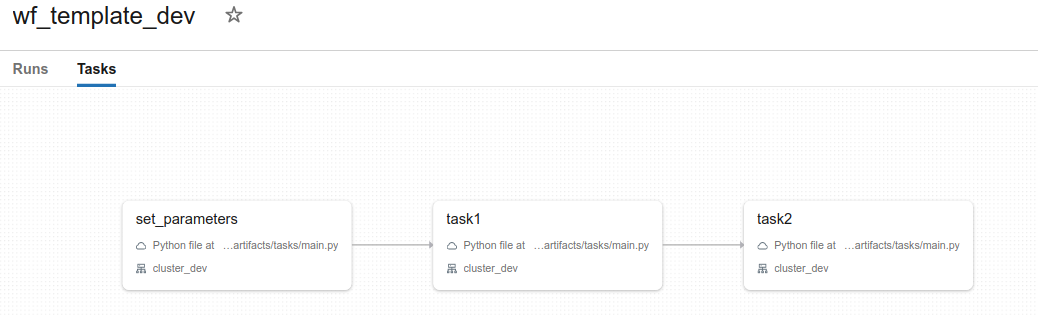
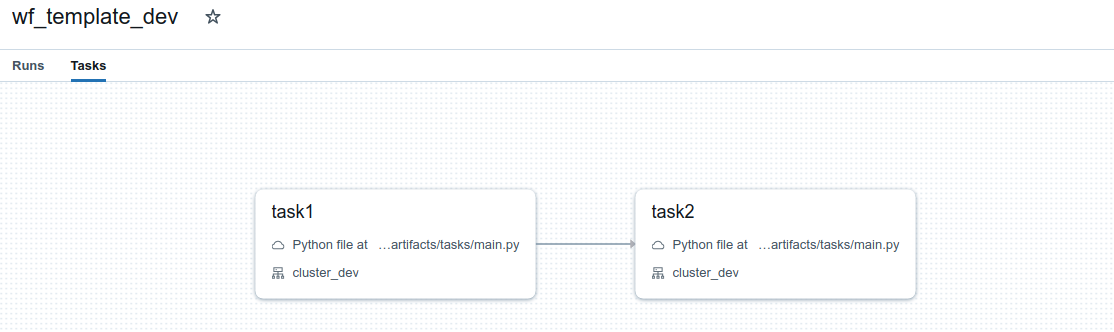
a better and testable config and argparser

diff --git a/tasks/main.py b/tasks/main.py
@@ -7,62 +7,25 @@ from tasks.config import *
 from tasks.task1 import *
 from tasks.task2 import *
 
-if __name__ == "__main__":
+def arg_parser():
 
     parser = argparse.ArgumentParser()
         
     parser.add_argument("--env", choices=["dev", "prod"])
     parser.add_argument("--input")
     parser.add_argument("--output")  
-    parser.add_argument("--task", required=True, choices=["set_parameters",
-                                                            "task1",
-                                                            "task2"])
+    parser.add_argument("--task", required=True, choices=["task1", "task2"])
     parser.add_argument("--skip", action='store_true')
-    parser.add_argument("--only_delta", action='store_true')
 
-    args = parser.parse_args()
+    return parser
 
-    print("args: " + str(args))
+if __name__ == "__main__":
 
-    if args.task == "set_parameters":
+    args = arg_parser().parse_args()
 
-        if args.env is None:
-            parser.error("--env required")
+    config = Config(args)
 
-        if args.input is None:
-            parser.error("--input required")
-
-        print("Setting workflow configs... ")
-        dbutils.jobs.taskValues.set(key = 'env', value = args.env)
-        dbutils.jobs.taskValues.set(key = 'input', value = args.input)
-
-        if args.output:
-            dbutils.jobs.taskValues.set(key = 'output', value = args.output)
- 
-    elif not args.skip:
-
-        try:
-            env = dbutils.jobs.taskValues.get(taskKey = "set_parameters", key = 'env')
-        except ValueError as ve:
-            if args.env is None:
-                parser.error("--env required")
-            else:
-                env = args.env
-
-        try:
-            input = dbutils.jobs.taskValues.get(taskKey = "set_parameters", key = 'input')
-        except ValueError as ve:
-            if args.input is None:
-                parser.error("--input required")
-            else:
-                input = args.input
-
-        try:
-            output = dbutils.jobs.taskValues.get(taskKey = "set_parameters", key = 'output')
-        except ValueError as ve:
-            output = args.output
-            
-        config = Config(env, input, output, args.task, args.only_delta)
+    if not config.skip_task():
 
         spark = SparkSession.builder.appName(args.task).getOrCreate()
 
@@ -74,4 +37,3 @@ if __name__ == "__main__":
     else:
         
         print(args.task + " skipped")
-  

diff --git a/tasks/config.py b/tasks/config.py
@@ -1,31 +1,36 @@
+import argparse
+
 class Config:
 
-    buckets = dict()
-    task = None
-    input = None
-    only_delta = None
+    params = dict()
+    args = None
 
-    def __init__(self, env, input, output, task, only_delta):
-
-        self.input = input
-        self.task = task
-        self.only_delta = only_delta
-
-        self.buckets.update({"input" : "s3://parsed-serps-" + env + "/" + input + "/S/"})
-
-        if output is None:
-            output = input
-
-        self.buckets.update({"root" : env + "-databricks-"})
-        self.buckets.update({"prefix_hbase" :  output + "/hbase"})
-        self.buckets.update({"output_hbase" : "s3://" + env + "-databricks-test/"  + output + "/hbase/"})
-        self.buckets.update({"delta" : "s3://" + env + "-databricks-test/" + output + "/delta/"})
-        self.buckets.update({"delta_basic_type" : "s3://" + env + "-databricks-test/" + output + "/delta/serps_basic_type"})
+    def __init__(self, args):
         
+        print("args: " + str(args))
+
+        if args.output == None:
+            output = args.input
+        else:
+            output = args.output
+
+        self.args = args
+        self.params.update({"input" : "s3://" + args.env + "-dbtemplate123/"  + args.input + "/"})
+        self.params.update({"output" : "s3://" + args.env + "-dbtemplate123/"  + output + "/"})
+        self.params.update({"skip" : args.skip})
+                
         print("Setting task configs... ")
-        for key, value in self.buckets.items():
+        for key, value in self.params.items():
             print(f"{key}: {value}")
     
     def get_bucket(self, key):
         
-        return self.buckets[key]
+        return self.params[key]
+    
+    def skip_task(self):
+        
+        return self.params['skip']
+
+    def get_test_output(self):
+
+        return (self.params)

diff --git a/tests/template_test.py b/tests/template_test.py
@@ -1,4 +1,4 @@
-import datetime
+from argparse import Namespace
 
 import pytest
 from chispa.dataframe_comparer import *
@@ -6,10 +6,12 @@ from pyspark.sql import *
 from pyspark.sql import functions as F
 from pyspark.sql.types import *
 
+from tasks.main import *
 from tasks import commonSchemas as sc
 from tasks.config import Config as TaskConfig
 from tasks.task1 import *
 from tasks.task2 import *
+from tasks.task1 import *
 
 #from databricks.connect import DatabricksSession
 #from databricks.sdk.core import Config
@@ -30,7 +32,29 @@ def df_in(spark) -> DataFrame:
 @pytest.fixture
 def config() -> TaskConfig:
 
-   return TaskConfig("", "", "", "", False)
+   return TaskConfig(Namespace(task='task1', env='dev', input='2024-01-01'))
+
+def test_arg_parser():
+
+   parser = arg_parser()
+
+   args = parser.parse_args(["--task=task1", "--env=dev","--input=test", "--skip"])
+
+   assert args == Namespace(task='task1', env='dev', input='test', output=None, skip=True)
+
+@pytest.mark.parametrize("args, expected_output", [
+   (Namespace(task='task1', env='dev', input='2024-01-01', output=None, skip=False),
+      {'input': 's3://dev-dbtemplate123/2024-01-01/', 'output':'s3://dev-dbtemplate123/2024-01-01/', 'skip':False}),
+   (Namespace(task='task2', env='prod', input='2024-01-02', output='test', skip=False),
+      {'input': 's3://prod-dbtemplate123/2024-01-02/', 'output':'s3://prod-dbtemplate123/test/', 'skip':False}),
+   (Namespace(task='task3', env='prod', input='2024-01-03', output=None, skip=True), 
+      {'input': 's3://prod-dbtemplate123/2024-01-03/', 'output':'s3://prod-dbtemplate123/2024-01-03/', 'skip':True})
+])
+def test_config(args, expected_output):
+
+   config = TaskConfig(args)
+
+   assert config.get_test_output() == expected_output
 
 def test_transf1(spark, config, df_in):
 

diff --git a/README.md b/README.md
@@ -1,11 +1,11 @@
 
-## Project Template for a CI/CD Pipeline with a PySpark/Databricks
+## Project Template for a PySpark/Databricks project (with automation for CI/CD)
 
 This project template provides a structured approach to enhance your productivity when delivering data pipelines on Databricks. Feel free to further customize it based on your project's specific nuances and the audience you are targeting.
 
 This project template demonstrates how to:
 
-- structure your PySpark code inside classes / packages.
+- structure your PySpark code inside classes/packages.
 - configure your pipeline to run in dev and prod environments.
 - set up VS Code to execute local unit tests for your transformations.
 - utilize [pytest package](https://pypi.org/project/pytest/) to run unit tests on transformations.
@@ -24,32 +24,30 @@ This project template demonstrates how to:
 
 ## Prepare local env  
 
-- build python env and execute unit tests
+### 1) build python env and execute unit tests
 
         pipenv --python 3.10
         pipenv shell
         pip install -r unit-requirements.txt
         pytest tests/
         
-
-- configure databricks tools, deploy and execute on "dev" aws account. First, [generate token](https://docs.databricks.com/en/dev-tools/auth/pat.html#databricks-personal-access-tokens-for-workspace-users) on your Databricks workspace.
-        
-        databricks configure -t *token*
-        databricks workspace ls /
-        adjust cluster policy (???)
-        dbx deploy wf_template_dev --environment=dev
-        dbx launch wf_template_dev --environment=dev
-                
-- configure repository secrets DATABRICKS_HOST and DATABRICKS_TOKEN for Github Actions.
-
-
-<br>
-
 You can also execute unit tests from your preferred IDE. Here's a screenshot from [VS Code](https://code.visualstudio.com/) with [Microsoft's Python extension](https://marketplace.visualstudio.com/items?itemName=ms-python.python) installed.
 
 <img src="docs/vscode.png"  width="30%" height="30%">
 
-## CI/CD pipeline  
+### 2) configure databricks tools, deploy and execute on "dev" aws account. 
+
+First, [generate a token](https://docs.databricks.com/en/dev-tools/auth/pat.html#databricks-personal-access-tokens-for-workspace-users) in your Databricks workspace.
+        
+        databricks configure -t *token*
+        databricks workspace ls /
+        adjust cluster policy on deployment.yml. You can find it on your workspace -> compute -> policies -> Job Compute.
+        dbx deploy wf_template_dev --environment=dev
+        dbx launch wf_template_dev --environment=dev
+                
+### 3) configure CI/CD pipeline
+
+Generate [Github Actions repository secrets](https://docs.github.com/en/actions/security-guides/using-secrets-in-github-actions) DATABRICKS_HOST and DATABRICKS_TOKEN.
 
 The below diagram illustrates the CI/CD pipeline for this project.
 
@@ -59,9 +57,11 @@ The below diagram illustrates the CI/CD pipeline for this project.
 
 <br>
 
+### ... and now you can code the transformations for each task and run unit and integration tests
+
 ## Possible improvements
 
-- Introduce Delta Live Tables
+- Introduce Delta Live Tables (???)
 - Introduce Databricks Connect
 - Introduce Databricks Asset Bundle (preview)
 - Visualize data lineage with Unity Catalog
